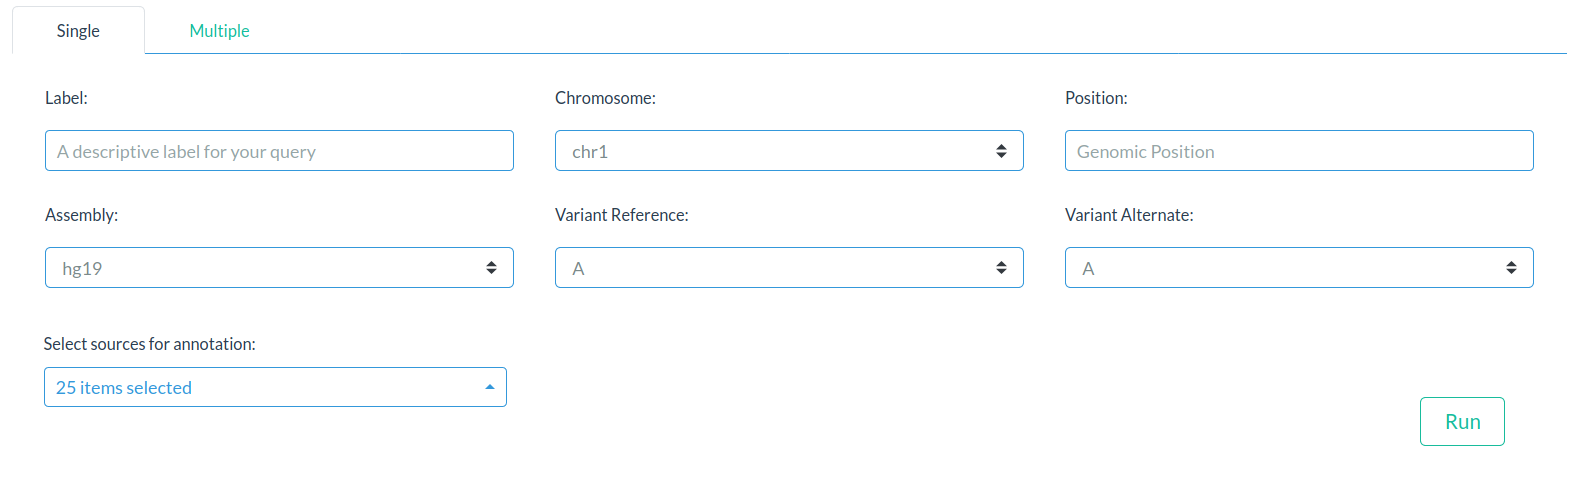
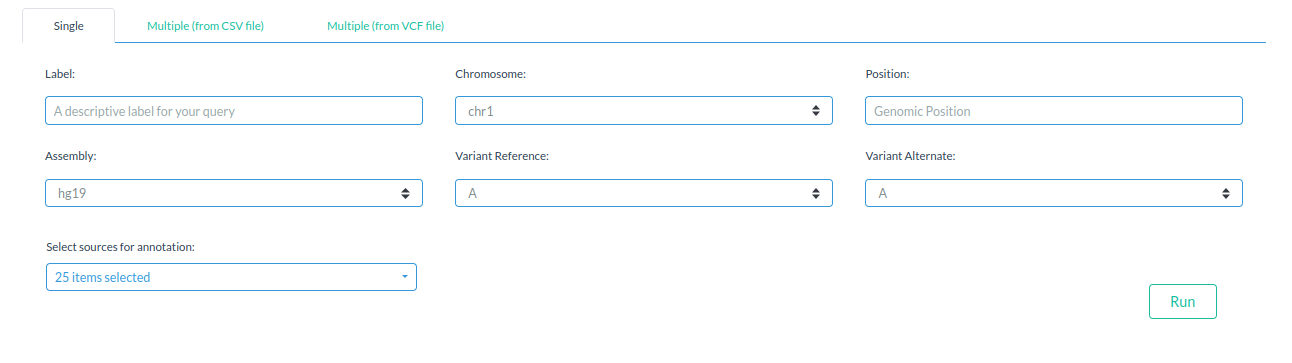
Update docs

diff --git a/docs/UserManual.md b/docs/UserManual.md
@@ -46,7 +46,7 @@ This is the page where users are automatically redirected after login.
 Variant Alert offers users two ways to submit their variants to keep under control:
 
 - **Single** mode: the user can fill the form one variant at a time
-- **Multiple** mode: upload of a csv file containing multiple variants
+- **Multiple** mode: upload of a PDF or CSV file containing multiple variants
 
 In any case, for each query the user must enter the following mandatory fields in order  
 to uniquely identify the variants:
@@ -68,10 +68,18 @@ the **Details** page with the results of the query.
 
 ### Multiple Mode
 
-![Multple Mode]({{ 'assets/images/add_new_multiple.png' | site_relative }})
+####  From CSV file
+![Multple Mode from CSV]({{ 'assets/images/add_new_multiple_csv.png' | site_relative }})
 
 In this case, the label will be the same for all the variants.
 An example csv file is available [here]({{ 'assets/files/ex_multiple_mode.csv' | site_relative }}).
+After successfully submitting, the user will be redirected to the **History** 
+page with the list of the submitted variants.
+
+####  From PDF file
+![Multple Mode from PDF]({{ 'assets/images/add_new_multiple_csv.png' | site_relative }})
+
+Again, the label will be the same for all the variants.
 After successfully submitting, the user will be redirected to the **History** 
 page with the list of the submitted variants.
 
